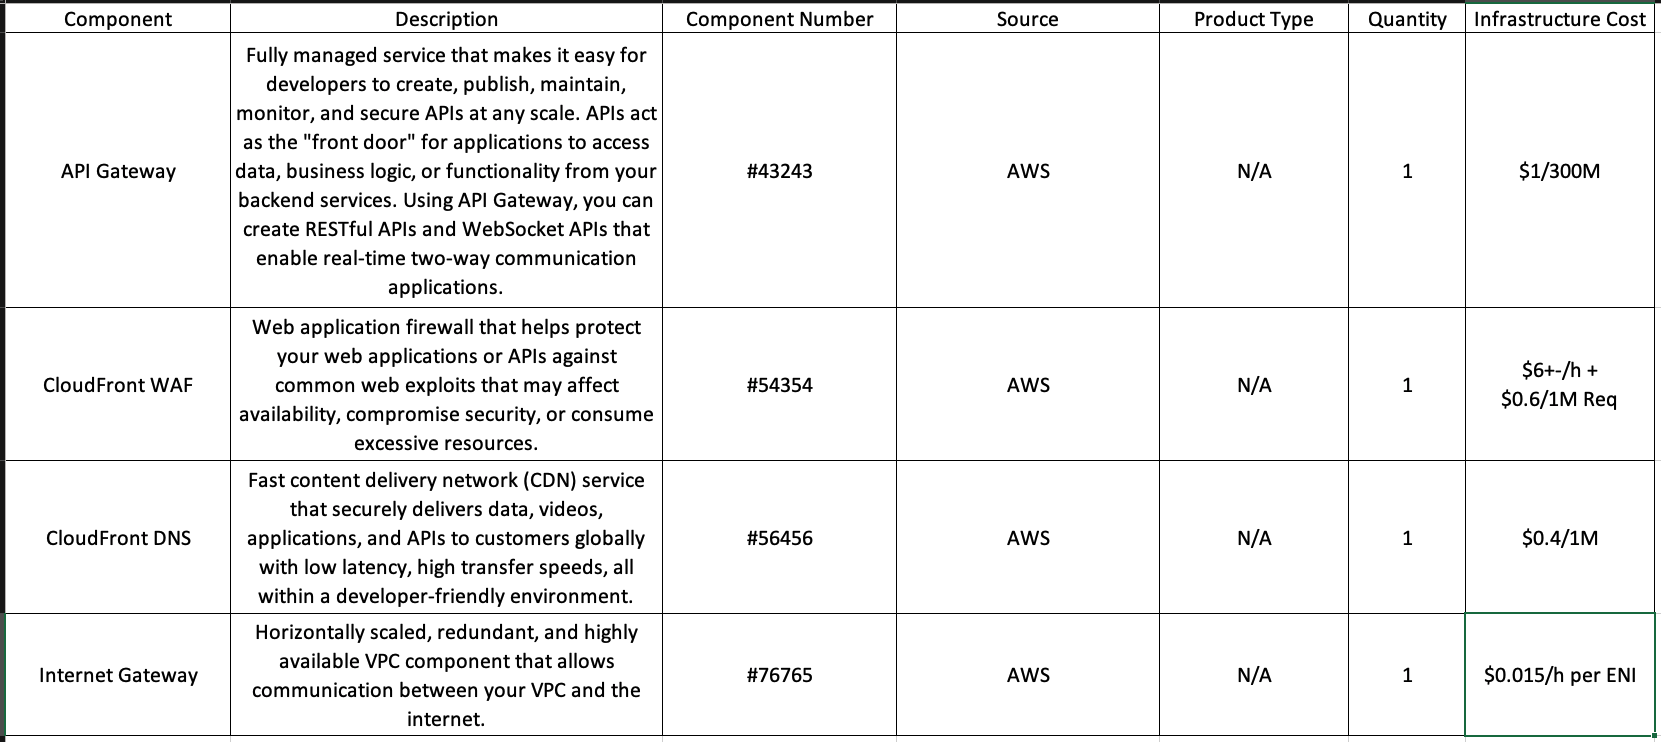
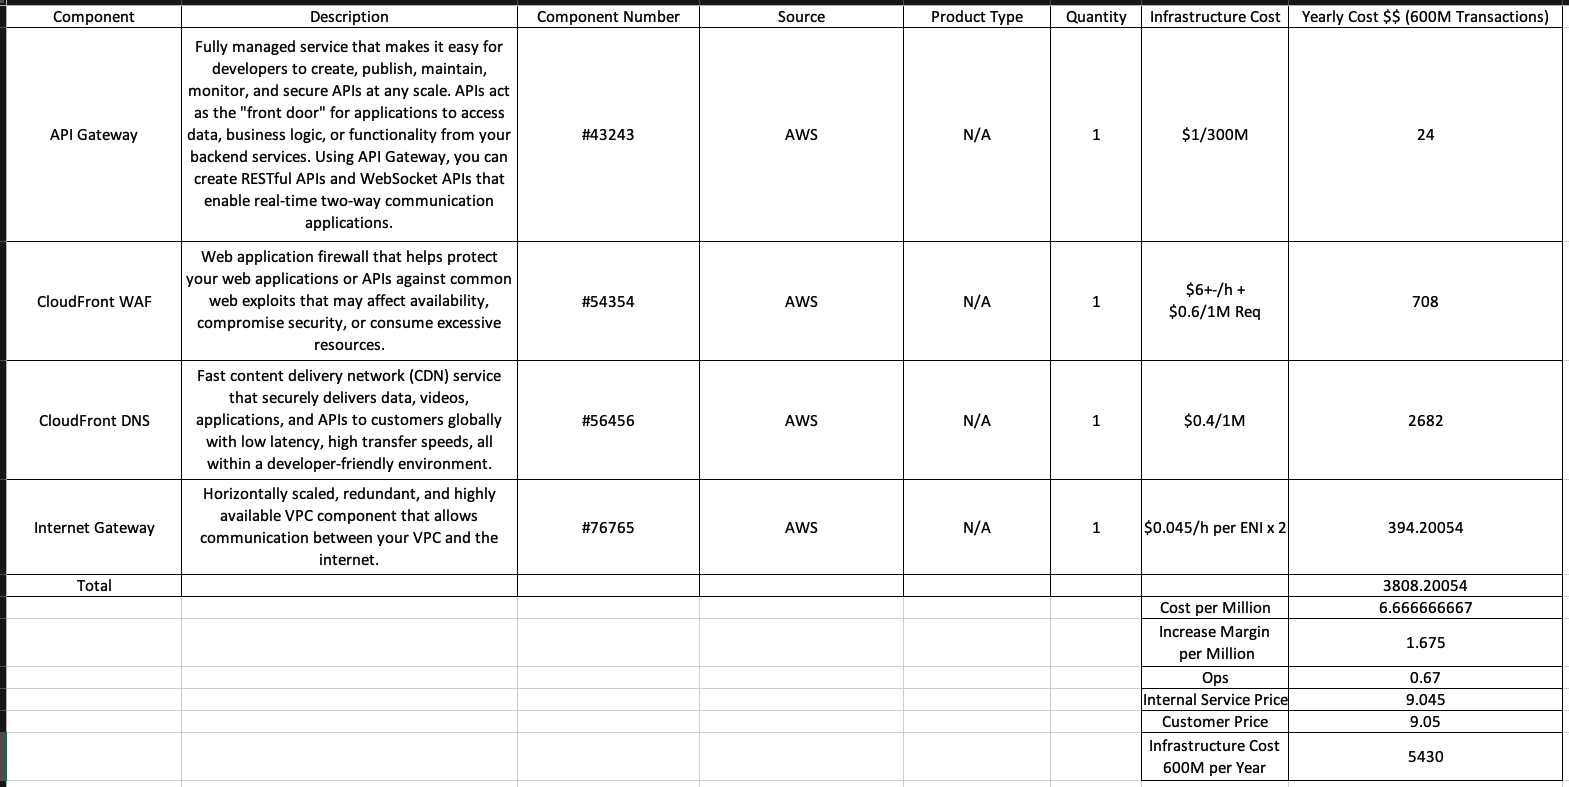
BOM was updated.

diff --git a/readme.md b/readme.md
@@ -112,7 +112,7 @@ Alumnos:
         
 <img src="Advance 3\Exercise 8\LogicalNetworkPlatformBOM.png"
         alt="Ejercicio 1"
-        style="height: 250px; width: 650px;" />
+        style="height: 350px; width: 650px;" />
 
 #### Ejercicio 9
 
